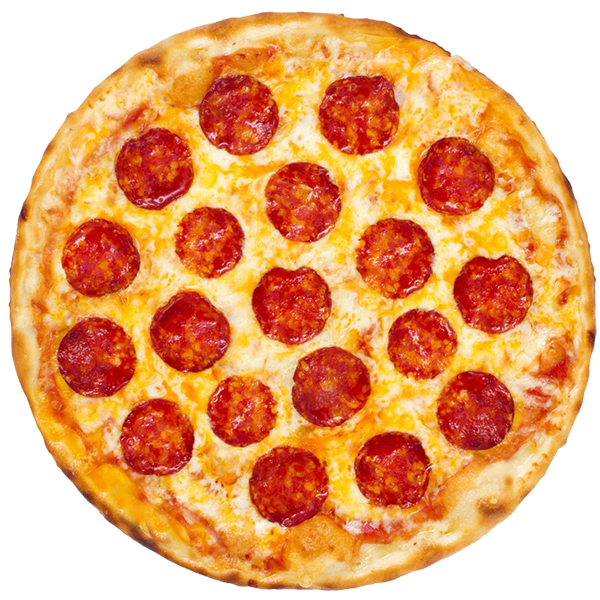
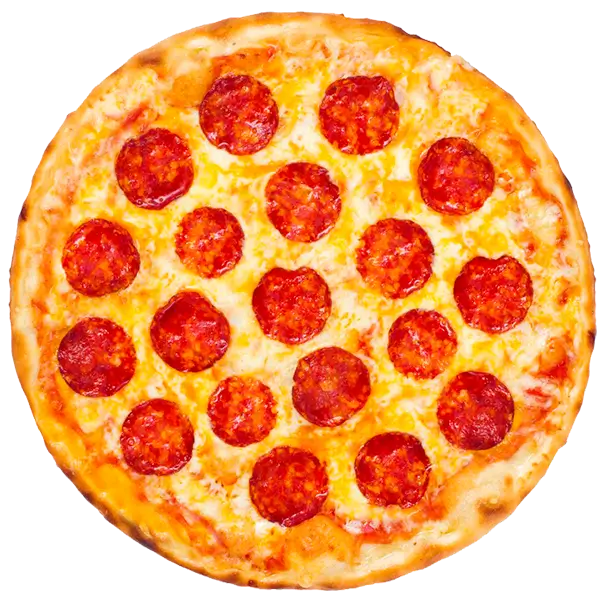
optimizando la imagen

diff --git a/index.html b/index.html
@@ -10,7 +10,7 @@
 <body>
     <div class="contenedor-1">
         <div class="img-pizza">
-            <img src="img/pizza.webp" alt=pizzaaaaaaaaaa">
+            <img src="img/pizza.webp" alt="pizzaaaaaaaaaa">
         </div>
     </div>
 </body>
